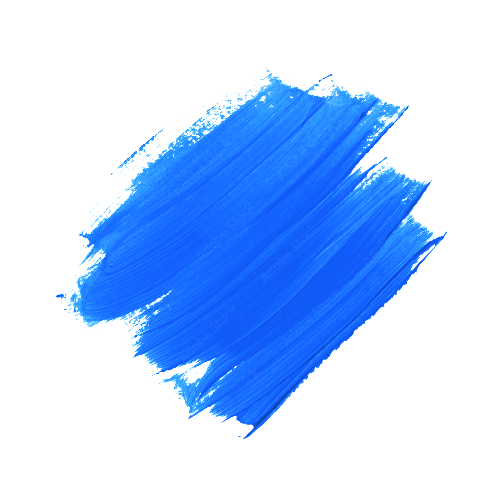
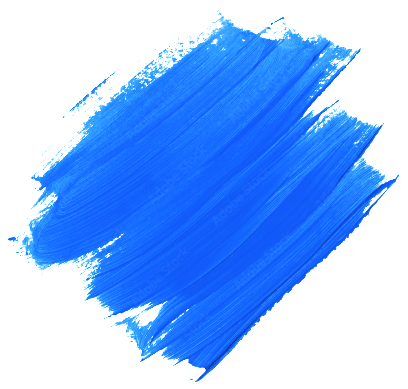
almost complete

diff --git a/style.css b/style.css
@@ -13,6 +13,13 @@ html{
     --second-col:#2a363d;
     --third-col:rgb(55, 0, 255);
 }
+::-webkit-scrollbar{
+    width: 10rem;
+}
+::-webkit-scrollbar-thumb{
+    background: linear-gradient(transparent,rgb(0, 195, 255),rgb(0, 17, 255));
+    border-radius: 10rem;
+}
 .dark-mode{
     --first-col:#0b0b0c;
     --second-col:#f4f7f8;
@@ -31,9 +38,12 @@ nav{
     display: flex;
     width: 100%;
     justify-content: space-around;
-    height: 80rem;
-    z-index: 111;
+    height: 70rem;
+    z-index: 9999;
     line-height: 80rem;
+}
+nav .sticky{
+    background-color: red;
 }
 #moonIcon{
     width: 46rem;
@@ -250,27 +260,27 @@ button:hover{
     position: relative;
     height: 100%;
     width: 600rem;
-    top: -25rem;
-    animation: animateSera 4s linear infinite;
+    top: 4rem;
+    animation: animateSera 3.8s linear infinite;
 }
 @keyframes animateSera{
     50%{
-        top: -50rem;
+        top: -21rem;
     }
 }
 .imgbox #stoke{
     position: absolute;
     top: 5%;
-    left: -170rem;
-    width: 950rem;
+    width: 650rem;
+    margin-left: -10%;
     filter: saturate(100%);
-    animation: animateStoke 4s linear infinite;
+    animation: animateStoke 3.8s linear infinite;
 }
 @keyframes animateStoke{
     50%{
         top: -5%;
-        left: -160rem;
-        width: 1000rem;
+        margin-left: -5%;
+        width: 660rem;
     }
 }
 
@@ -1517,7 +1527,7 @@ button:hover{
 
 .section3{
     width: 100%;
-    min-height: 100vh;
+    min-height: 150vh;
     overflow-x: hidden;
     background-color: var(--first-col);
     justify-content: center
@@ -1538,6 +1548,184 @@ button:hover{
     animation: textShine 3s ease-in-out infinite alternate;
     background-size: 500% auto;
     letter-spacing: 2rem;
+}
+.section3 .container{
+    width: 92%;
+    height: 90%;
+    display: grid;
+    position: absolute;
+    border-radius: 20px;
+    margin-left: 4%;
+    align-items: center;
+    justify-content: center;
+    display: flex; 
+    overflow: hidden;
+    background-image: url(img/originimg6.jpeg);
+    animation: change 100s infinite ease-in-out;
+    background-size: cover;
+}
+.section3 .origincard{
+    width:100%;
+    height: 100%;
+    position: absolute;
+    background: linear-gradient(to right,rgba(0, 195, 255, 0) , rgba(0, 0, 0, 0.555));
+    border-radius: 20px;
+    box-shadow: 0 4px 30px rgba(0, 0, 0, 0.377);
+    border: 1px solid rgba(255, 255, 255, 0.3);
+    align-items: center;
+    justify-content: center;
+    display: flex; 
+}
+.container img{
+    object-fit: cover;
+    width: 102%;
+    height: 102%;
+    display: grid;
+}
+@keyframes change{
+    0%{
+        background-image: url(img/originimg1.jpeg);
+    }
+    10%{
+        background-image: url(img/originimg2.jpeg);
+    }
+    20%{
+        background-image: url(img/originimg3.jpeg);
+    }
+    30%{
+        background-image: url(img/originimg4.jpeg);
+    }
+    40%{
+        background-image: url(img/originimg5.jpeg);
+    }
+    50%{
+        background-image: url(img/originimg6.jpeg);
+    }
+    60%{
+        background-image: url(img/originimg1.jpeg);
+    }
+    70%{
+        background-image: url(img/originimg2.jpeg);
+    }
+    80%{
+        background-image: url(img/originimg3.jpeg);
+    }
+    90%{
+        background-image: url(img/originimg4.jpeg);
+    }
+    100%{
+        background-image: url(img/originimg5.jpeg);
+    }
+}
+.origincard .aboutSeraorigin{
+    position: absolute;
+    margin-left: 90%;
+    width: 80%;
+    margin-top: 2%;
+}
+.aboutSeraorigin .aboutheadorigin{
+    padding-bottom: 1%;
+    font-size: 80rem;
+    font-weight: 900;
+    background: linear-gradient(
+        to left,rgb(0, 195, 255), #f3f7f9,rgb(0, 195, 255));
+    -webkit-background-clip: text;
+    background-clip: text;
+    -webkit-text-fill-color: transparent;
+    text-fill-color: "transparent";
+    animation: textShine 3s ease-in-out infinite alternate;
+    background-size: 500% auto;
+}
+.aboutSeraorigin p{
+    color: #f3f7f9;
+}
+
+footer{
+    position: relative;
+    width: 100%;
+    background: linear-gradient(180deg ,#3586ff,rgb(0, 195, 255));
+    min-height: 240rem;
+    padding: 20px 50px;
+    display: flex;
+    justify-content: center;
+    align-items: center;
+}
+footer .social_icons{
+    position: relative;
+    display: flex;
+    justify-content: center;
+    align-items: center;
+    margin: 10rem 0;
+    flex-wrap: wrap;
+}
+footer .social_icons li{
+    list-style: none;
+}
+footer .social_icons li a{
+    font-size: 50rem;
+    color: var(--first-col);
+    margin: 0 20rem;
+    display: inline-block;
+    transition: 0.5s;
+}
+footer .social_icons li a:hover{
+    font-size: 51rem;
+    transform: translateY(-10rem);
+}
+footer .footerpara{
+    font-size: 20rem;
+    position: absolute;
+    margin-top: 10%;
+    color: var(--first-col);
+}
+footer .wave{
+    position: absolute;
+    top: -110rem;
+    left: 0;
+    width: 100%;
+    height: 110rem;
+    background: url(img/wave.png);
+    background-size: 1000rem 110rem;
+}
+footer .wave#wave1{
+    z-index: 100;
+    opacity: 1;
+    bottom: 0;
+    animation: animatewave 4s linear infinite;
+}
+footer .wave#wave2{
+    z-index: 99;
+    opacity: 0.5;
+    bottom: 10rem;
+    animation: animatewave2 4s linear infinite;
+}
+footer .wave#wave3{
+    z-index: 100;
+    opacity: 0.2;
+    bottom: 15rem;
+    animation: animatewave2 3s linear infinite;
+}
+footer .wave#wave4{
+    z-index: 99;
+    opacity: 0.7;
+    bottom: 20rem;
+    animation: animatewave2 3s linear infinite;
+}
+@keyframes animatewave{
+    0%{
+        background-position: 1000rem;
+    }
+    100%{
+        background-position: 0rem;
+    }
+}
+@keyframes animatewave2{
+    0%{
+        background-position: 0rem;
+    }
+    100%{
+        background-position: 1000rem;
+    }
 }
 /* responsive design */
 @media screen and (max-width: 400px) {

diff --git a/index.html b/index.html
@@ -16,7 +16,7 @@
                 <li><a href="#home">home</a></li>
                 <li><a href="#about">about</a></li>
                 <li><a href="#work">works</a></li>
-                <li><a href="#">origin</a></li>
+                <li><a href="#origin">origin</a></li>
             </ul>
             <div class="links">
                 <a href="#" style="--i:1"><i class="fab fa-reddit"></i></a>
@@ -24,7 +24,7 @@
                 <a href="#" style="--i:3"><i class="fab fa-twitter"></i></a>
             </div> 
             <img src="img/moon.png" id="moonIcon">
-        </nav>
+          </nav>
 
         <div class="wrapper" id="home">
             <div class="col cols0">
@@ -657,11 +657,36 @@
 
    <div class="section3">
     <div class="originhead">Origin</div>
+    <div class="container">
+      <div class="origincard">
+        <div class="aboutSeraorigin">
+          <div class="aboutheadorigin" id="#origin">Her Story</div>
+          <p>Born in Piltover Crest icon Piltover to Zaun Crest icon Zaunite parents, Seraphine can hear the souls of others—the world sings to her, and she sings back. Though these sounds overwhelmed her in her youth, she now draws on them for inspiration, turning the chaos into a symphony. She performs for the sister cities to remind their citizens that they’re not alone, that they’re stronger together, and that, in her eyes, their potential is limitless. As a young girl, Seraphine developed a passion for music of all kinds. This passion only grew after her Mother's departure, leaving just her and her father in their Piltovian home.</p>
+              <button type="button" onclick="window.location.href='https://leagueoflegends.fandom.com/wiki/Seraphine';" class="btns1">Read more ↠</button>
+      </div>
+      </div>
+    </div>
    </div>
 
+   <footer>
+    <div class="waves">
+      <div class="wave" id="wave1"></div>
+      <div class="wave" id="wave2"></div>
+      <div class="wave" id="wave3"></div>
+      <div class="wave" id="wave4"></div>
+    </div>
+    <ul class="social_icons">
+      <li><a href="#" target="_blank"><i class="fab fa-twitch"></i></a></li>
+      <li><a href="#" target="_blank"><i class="fab fa-snapchat"></i></a></li>
+      <li><a href="#" target="_blank"><i class="fab fa-youtube"></i></a></li>
+      <li><a href="#" target="_blank"><i class="fab fa-facebook"></i></a></li>
+    </ul>
+    <div class="footerpara">Made by Arnab in the name of &#10084; for Seraphine and passion for League of Legends :) </div>
+   </footer>
 
     <script src="https://unpkg.com/typed.js@2.0.16/dist/typed.umd.js"></script>
     <script src="script.js"></script>
+    <script src="nav.js"></script>
     
 </body>
 </html>

diff --git a/nav.js b/nav.js
@@ -1,0 +1,4 @@
+$(window).scroll(function(){
+    if($(window).scrollTop()){
+     $("nav").addClass("sticky");
+}})
